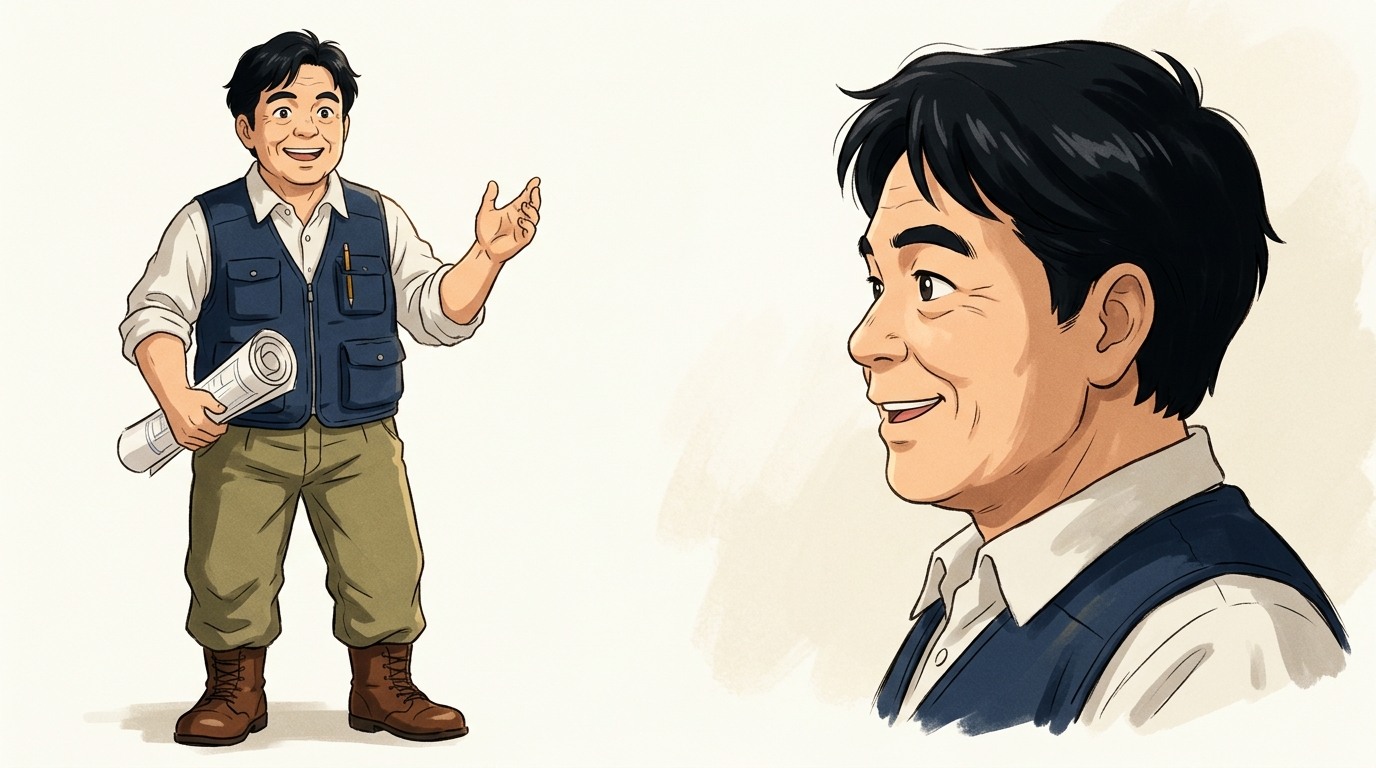
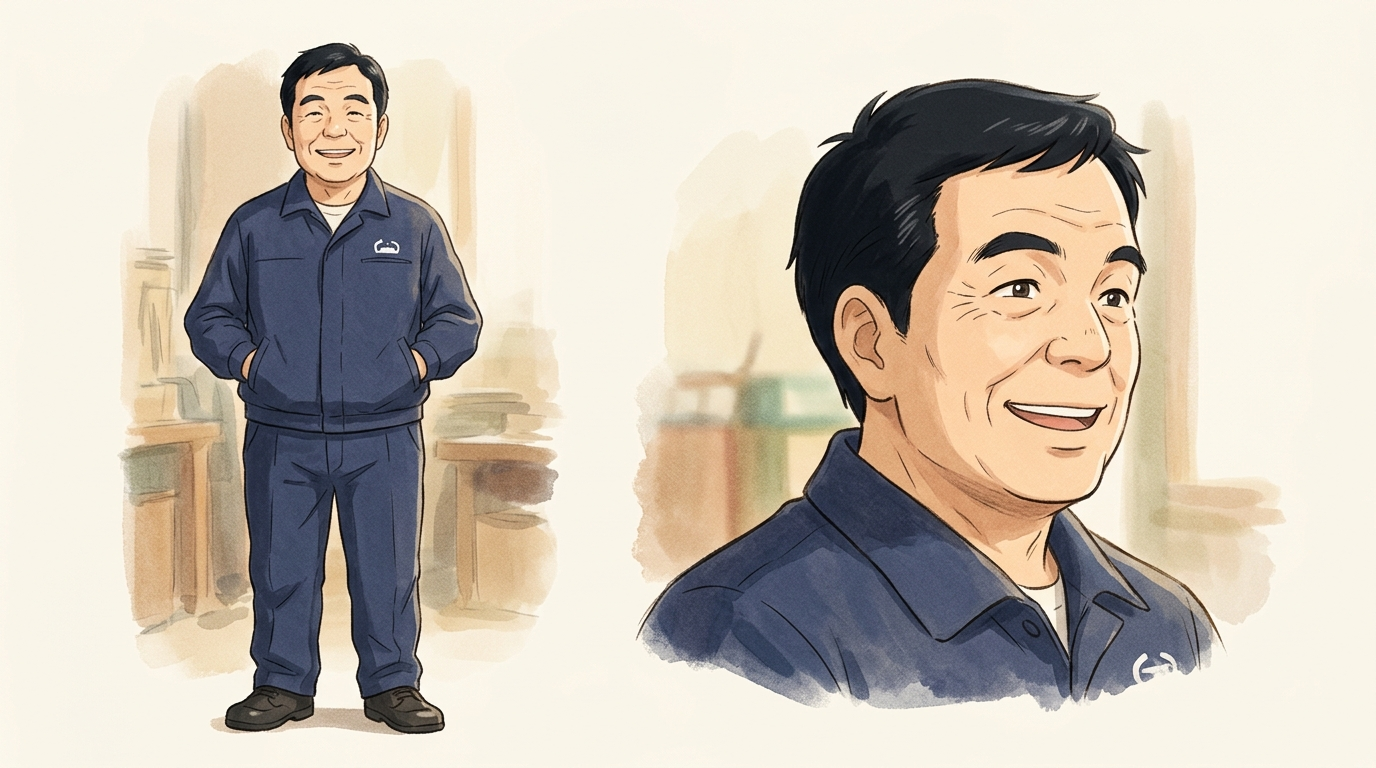
Unify all staff into the same navy company uniform; drop apron
Claude-Session: https://claude.ai/code/session_01VVEZCUrcZYnzyQqFn6XvYr

diff --git a/mv/staff.py b/mv/staff.py
@@ -1,26 +1,27 @@
 # 原マシナリーを支える社員（ユーザーから聞いた実際の顔ぶれをもとにした、アニメ調の人物設定）
 # key: (日本語の説明, 英語の見た目)
+# 服装: 全員同じ紺の会社の作業着で統一
 # 髪: 顧問 3 人と白髪の設計者以外の男性は黒髪、女性は暗めの茶髪
 STAFF = {
- "part_pony":   ("パート（掃除・雑務）50代女性、ポニーテール", "a beautiful Japanese woman in her fifties with dark brown hair in a neat ponytail, part-time staff in a light work apron, gentle smile, youthful and lively, looks about ten years younger than her age, smooth skin, bright eyes"),
- "part_okami":  ("パート・先代社長の奥さん 70代女性、暗めの茶髪", "a warm Japanese woman in her seventies with soft dark brown hair (no grey at all), cardigan over a work apron, the late founder's wife who watches over everyone, youthful and lively, looks about ten years younger than her age, smooth skin, bright eyes"),
- "new_shy":     ("新人（大物金属加工） 20代男性、少し内気", "a slightly shy young Japanese man in his twenties with short black hair, new navy work uniform, modest reserved expression"),
- "new_viet":    ("新人（大物金属加工） 35歳くらいのベトナム人男性、おしゃべりで一生懸命", "a cheerful Vietnamese man around thirty-five with short black hair and a big friendly grin, navy work uniform, talkative and hardworking"),
- "new_pony_m":  ("新人（大物金属加工） 50代男性、ポニーテール、気さく", "a friendly easygoing Japanese man in his fifties with long jet-black hair (no grey at all) tied in a ponytail, navy work uniform"),
- "new_glasses": ("新人（大物金属加工の完成品検査）55歳くらいの男性、メガネ、物知り", "a knowledgeable Japanese man around fifty-five with glasses and neatly combed black hair, light blue inspection uniform, inspects finished large machined metal parts, thoughtful look"),
- "machinist":   ("金属加工の熟練工 50代男性、眼鏡・短髪・細身", "a slim Japanese master machinist in his fifties with short black hair and glasses, navy work uniform, calm focused eyes"),
- "assembler":   ("装置組付けの熟練工 50代男性、眼鏡・髭・大柄", "a sturdy, slightly large Japanese master assembler in his fifties with short black hair, glasses and a short black beard, navy work uniform, reliable presence"),
- "clerk":       ("総務・経理 30代男性、あたふたしつつ真面目", "an earnest Japanese office clerk in his thirties with neat short black hair, white shirt and tie, slightly flustered but diligent"),
- "insp_woman":  ("検査 40歳くらいの女性、ショートカット、おっとり", "a gentle, calm Japanese woman around forty with short dark brown hair, light blue inspection uniform, responsible and kind, youthful and lively, looks about ten years younger than her age, smooth skin, bright eyes"),
- "qc_chief":    ("品質課 課長 60代", "a Japanese quality control section chief in his sixties with short black hair, light blue inspection uniform, strict and dependable"),
- "insp_mid":    ("検査 60代、皆の話を聞いて仕事を回す", "an approachable Japanese man in his sixties with jet-black hair (no grey at all) and a kind face, light blue inspection uniform, a good listener"),
- "des_smile":   ("装置設計 50代男性、細身・眼鏡・いつも笑顔", "a slim Japanese machine designer in his fifties with black hair and glasses and a constant warm smile, white shirt with rolled sleeves"),
- "des_white":   ("装置設計 60代男性、白髪で若々しい", "a vigorous Japanese machine designer in his sixties with white hair, sharp energetic eyes, white shirt and work vest"),
- "adv_all":     ("顧問 70代男性、全部門の相談役（元・装置部門）", "a dignified Japanese man in his seventies, senior advisor to all departments, grey hair, navy work jacket, wise gentle eyes"),
- "adv_big":     ("顧問 70代男性、大物金属加工の相談役", "a strong-looking Japanese man in his seventies, advisor for large-part machining, short white hair, navy work jacket, weathered hands"),
- "adv_slim":    ("顧問 70代男性、細身、装置の構想・技術の相談役", "a slim, intellectual Japanese man in his seventies, advisor on machine design concepts, thin white hair, navy work jacket"),
- "driver":      ("製品を 3t トラックで運ぶ 70代男性、小柄・丁寧・笑顔", "a small, polite Japanese truck driver in his seventies with a wonderful warm smile, short jet-black hair (no grey at all), cap and navy work jacket, careful and courteous"),
- "concept":     ("装置の構想担当 70代男性、少しふくよか・元気で知的・笑顔", "a cheerful, slightly plump Japanese man in his seventies who conceives machine concepts, jet-black hair (no grey at all), bright intelligent eyes, always smiling, white shirt and navy work vest, energetic"),
- "president":   ("社長 40歳くらいの男性", "a Japanese company president around forty with neat short black hair, navy company work jacket over a shirt, determined and warm"),
- "vp":          ("副社長 50代の小柄な女性、おっとりしつつキリッと", "a petite Japanese woman in her fifties, the vice president, neat short dark brown hair, company work jacket, gentle yet sharp and dignified, motherly, youthful and lively, looks about ten years younger than her age, smooth skin, bright eyes"),
+ "part_pony":   ("パート（掃除・雑務）50代女性、ポニーテール", "a beautiful Japanese woman in her fifties with dark brown hair in a neat ponytail, gentle smile, youthful and lively, looks about ten years younger than her age, smooth skin, bright eyes, wearing the company's standard uniform (navy blue work jacket with a small white emblem on the chest and matching navy work trousers, same as all other employees)"),
+ "part_okami":  ("パート・先代社長の奥さん 70代女性、暗めの茶髪", "a warm Japanese woman in her seventies with soft dark brown hair (no grey at all), the late founder's wife who watches over everyone, youthful and lively, looks about ten years younger than her age, smooth skin, bright eyes, wearing the company's standard uniform (navy blue work jacket with a small white emblem on the chest and matching navy work trousers, same as all other employees)"),
+ "new_shy":     ("新人（大物金属加工） 20代男性、少し内気", "a slightly shy young Japanese man in his twenties with short black hair, modest reserved expression, wearing the company's standard uniform (navy blue work jacket with a small white emblem on the chest and matching navy work trousers, same as all other employees)"),
+ "new_viet":    ("新人（大物金属加工） 35歳くらいのベトナム人男性、おしゃべりで一生懸命", "a cheerful Vietnamese man around thirty-five with short black hair and a big friendly grin, talkative and hardworking, wearing the company's standard uniform (navy blue work jacket with a small white emblem on the chest and matching navy work trousers, same as all other employees)"),
+ "new_pony_m":  ("新人（大物金属加工） 50代男性、ポニーテール、気さく", "a friendly easygoing Japanese man in his fifties with long jet-black hair (no grey at all) tied in a ponytail, no apron, wearing the company's standard uniform (navy blue work jacket with a small white emblem on the chest and matching navy work trousers, same as all other employees)"),
+ "new_glasses": ("新人（大物金属加工の完成品検査）55歳くらいの男性、メガネ、物知り", "a knowledgeable Japanese man around fifty-five with glasses and neatly combed black hair, thoughtful look, inspects finished large machined parts, wearing the company's standard uniform (navy blue work jacket with a small white emblem on the chest and matching navy work trousers, same as all other employees)"),
+ "machinist":   ("金属加工の熟練工 50代男性、眼鏡・短髪・細身", "a slim Japanese master machinist in his fifties with short black hair and glasses, calm focused eyes, wearing the company's standard uniform (navy blue work jacket with a small white emblem on the chest and matching navy work trousers, same as all other employees)"),
+ "assembler":   ("装置組付けの熟練工 50代男性、眼鏡・髭・大柄", "a sturdy, slightly large Japanese master assembler in his fifties with short black hair, glasses and a short black beard, reliable presence, wearing the company's standard uniform (navy blue work jacket with a small white emblem on the chest and matching navy work trousers, same as all other employees)"),
+ "clerk":       ("総務・経理 30代男性、あたふたしつつ真面目", "an earnest Japanese office clerk in his thirties with neat short black hair, slightly flustered but diligent, wearing the company's standard uniform (navy blue work jacket with a small white emblem on the chest and matching navy work trousers, same as all other employees)"),
+ "insp_woman":  ("検査 40歳くらいの女性、ショートカット、おっとり", "a gentle, calm Japanese woman around forty with short dark brown hair, responsible and kind, youthful and lively, looks about ten years younger than her age, smooth skin, bright eyes, wearing the company's standard uniform (navy blue work jacket with a small white emblem on the chest and matching navy work trousers, same as all other employees)"),
+ "qc_chief":    ("品質課 課長 60代", "a Japanese quality control section chief in his sixties with short black hair, strict and dependable, wearing the company's standard uniform (navy blue work jacket with a small white emblem on the chest and matching navy work trousers, same as all other employees)"),
+ "insp_mid":    ("検査 60代、皆の話を聞いて仕事を回す", "an approachable Japanese man in his sixties with jet-black hair (no grey at all) and a kind face, a good listener, wearing the company's standard uniform (navy blue work jacket with a small white emblem on the chest and matching navy work trousers, same as all other employees)"),
+ "des_smile":   ("装置設計 50代男性、細身・眼鏡・いつも笑顔", "a slim Japanese machine designer in his fifties with black hair and glasses and a constant warm smile, wearing the company's standard uniform (navy blue work jacket with a small white emblem on the chest and matching navy work trousers, same as all other employees)"),
+ "des_white":   ("装置設計 60代男性、白髪で若々しい", "a vigorous Japanese machine designer in his sixties with white hair, sharp energetic eyes, wearing the company's standard uniform (navy blue work jacket with a small white emblem on the chest and matching navy work trousers, same as all other employees)"),
+ "adv_all":     ("顧問 70代男性、全部門の相談役（元・装置部門）", "a dignified Japanese man in his seventies, senior advisor to all departments, grey hair, wise gentle eyes, wearing the company's standard uniform (navy blue work jacket with a small white emblem on the chest and matching navy work trousers, same as all other employees)"),
+ "adv_big":     ("顧問 70代男性、大物金属加工の相談役", "a strong-looking Japanese man in his seventies, advisor for large-part machining, short white hair, weathered hands, wearing the company's standard uniform (navy blue work jacket with a small white emblem on the chest and matching navy work trousers, same as all other employees)"),
+ "adv_slim":    ("顧問 70代男性、細身、装置の構想・技術の相談役", "a slim, intellectual Japanese man in his seventies, advisor on machine design concepts, thin white hair, wearing the company's standard uniform (navy blue work jacket with a small white emblem on the chest and matching navy work trousers, same as all other employees)"),
+ "driver":      ("製品を 3t トラックで運ぶ 70代男性、小柄・丁寧・笑顔", "a small, polite Japanese truck driver in his seventies with a wonderful warm smile, short jet-black hair (no grey at all), careful and courteous, wearing the company's standard uniform (navy blue work jacket with a small white emblem on the chest and matching navy work trousers, same as all other employees)"),
+ "concept":     ("装置の構想担当 70代男性、少しふくよか・元気で知的・笑顔", "a cheerful, slightly plump Japanese man in his seventies who conceives machine concepts, clean-shaven, jet-black hair (no grey at all), bright intelligent eyes, always smiling, energetic, wearing the company's standard uniform (navy blue work jacket with a small white emblem on the chest and matching navy work trousers, same as all other employees)"),
+ "president":   ("社長 40歳くらいの男性", "a Japanese company president around forty with neat short black hair, determined and warm, wearing the company's standard uniform (navy blue work jacket with a small white emblem on the chest and matching navy work trousers, same as all other employees)"),
+ "vp":          ("副社長 50代の小柄な女性、おっとりしつつキリッと", "a petite Japanese woman in her fifties, the vice president, neat short dark brown hair, gentle yet sharp and dignified, motherly, youthful and lively, looks about ten years younger than her age, smooth skin, bright eyes, wearing the company's standard uniform (navy blue work jacket with a small white emblem on the chest and matching navy work trousers, same as all other employees)"),
 }

diff --git a/mv/cuts.py b/mv/cuts.py
@@ -196,7 +196,7 @@ RECAST = {
  "35": (["president", "vp", "exterior"], "All twenty-one employees of a small company gathered in front of this factory building (long white building with a blue band near the roof, yellow roll-up shutter, two-story office wing, sculpted pine trees and a natural stone wall in front, wooded hill behind), smiling, the president and vice president in the center; the camera pulls back and rises to reveal the whole group."),
  "36": (["adv_big", "new_shy", "big_part"], "The elderly large-part machining advisor and the shy young recruit from his team stand side by side on the green factory floor, looking proudly at a huge flat precision-machined steel plate several meters long, with a mirror-like milled surface, machined pockets, T-slots and bolt holes they just finished, light on their faces."),
  "38": (["new_viet", "insp_woman", "clerk"], "Employees look up toward bright light with determined smiles, wind moving their hair, camera slowly pushing in."),
- "42": (["new_glasses", "big_part"], "Close-up: the inspector with glasses in a light blue uniform slowly runs his fingertip along the mirror-smooth surface of a huge flat precision-machined steel plate several meters long, with a mirror-like milled surface, machined pockets, T-slots and bolt holes, checking it against the light with a straightedge, utterly focused."),
+ "42": (["new_glasses", "big_part"], "Close-up: the inspector with glasses in the navy company uniform slowly runs his fingertip along the mirror-smooth surface of a huge flat precision-machined steel plate several meters long, with a mirror-like milled surface, machined pockets, T-slots and bolt holes, checking it against the light with a straightedge, utterly focused."),
  "43": (["assembler", "des_smile", "factory_real"], "A cover cloth is pulled off a newly finished special-purpose machine in the factory; the bearded assembler and the designer look at it proudly."),
  "45": (["concept", "president", "office"], "In a meeting room, a client in a suit explains their needs while the cheerful elderly concept designer listens with a big smile and quickly sketches a machine idea; the president nods; the client leans in, delighted."),
  # お客様・仕入れ先様
